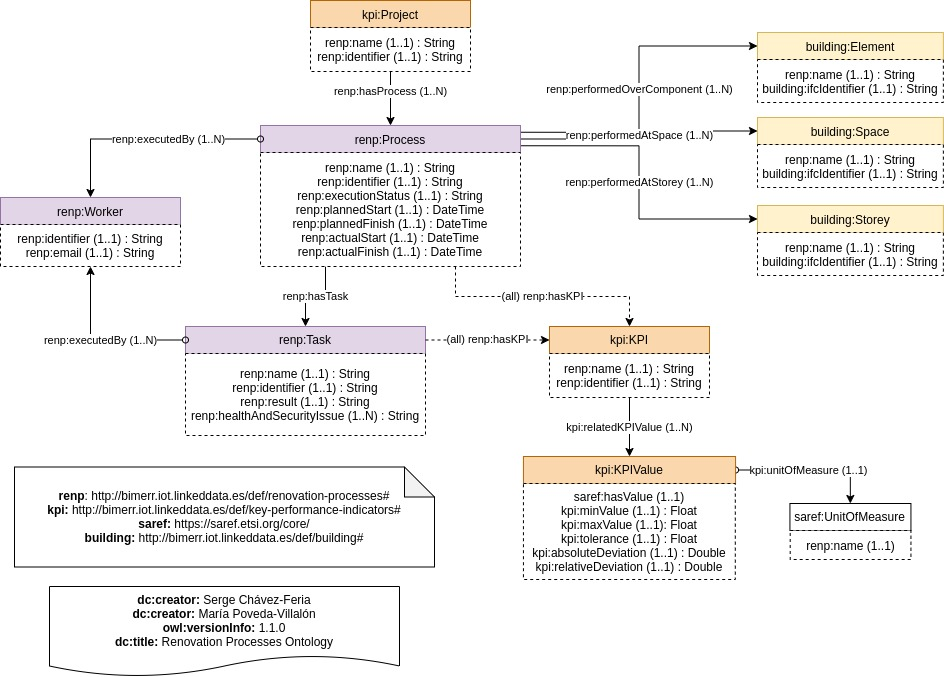
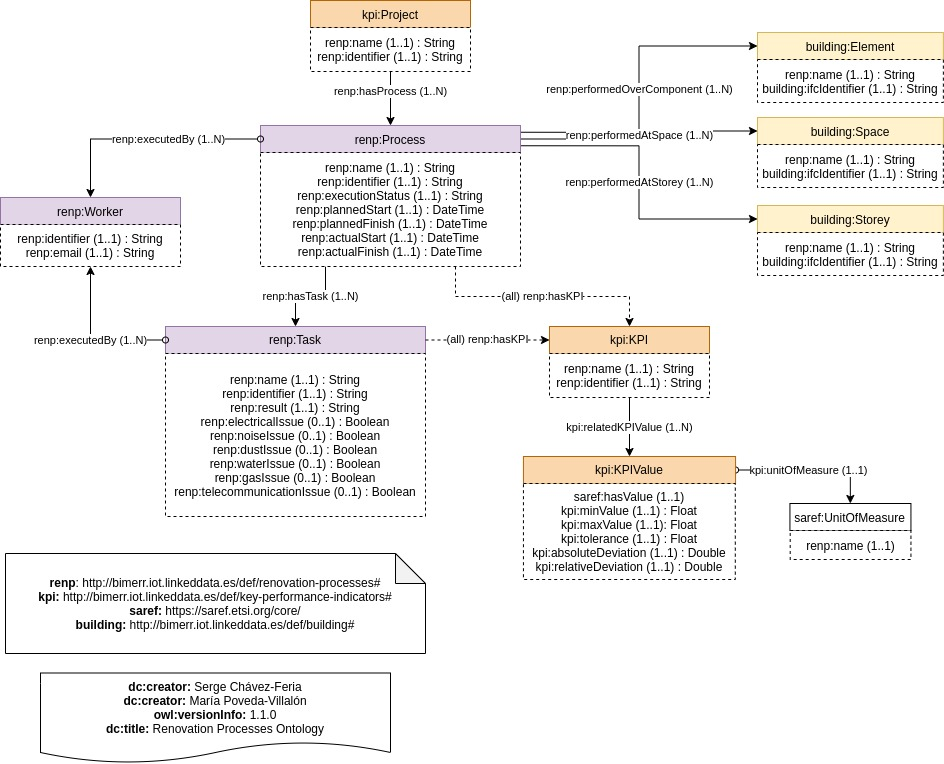
new attributes

diff --git a/documentation/sections/crossref-en.html b/documentation/sections/crossref-en.html
@@ -517,12 +517,24 @@ This section provides details for each class and property defined by Renovation 
             title="http://bimerr.iot.linkeddata.es/def/renovation-processes#actualStart">actual start</a>
       </li>
       <li>
+         <a href="#dustIssue"
+            title="http://bimerr.iot.linkeddata.es/def/renovation-processes#dustIssue">dust issue</a>
+      </li>
+      <li>
+         <a href="#electricalIssue"
+            title="http://bimerr.iot.linkeddata.es/def/renovation-processes#electricalIssue">electrical issue</a>
+      </li>
+      <li>
          <a href="#email"
             title="http://bimerr.iot.linkeddata.es/def/renovation-processes#email">email</a>
       </li>
       <li>
          <a href="#executionStatus"
             title="http://bimerr.iot.linkeddata.es/def/renovation-processes#executionStatus">execution status</a>
+      </li>
+      <li>
+         <a href="#gasIssue"
+            title="http://bimerr.iot.linkeddata.es/def/renovation-processes#gasIssue">gas issue</a>
       </li>
       <li>
          <a href="#https://saref.etsi.org/core/hasValue" title="https://saref.etsi.org/core/hasValue">has value</a>
@@ -552,6 +564,10 @@ This section provides details for each class and property defined by Renovation 
             title="http://bimerr.iot.linkeddata.es/def/renovation-processes#name">name</a>
       </li>
       <li>
+         <a href="#noiseIssue"
+            title="http://bimerr.iot.linkeddata.es/def/renovation-processes#noiseIssue">noise issue</a>
+      </li>
+      <li>
          <a href="#plannedFinish"
             title="http://bimerr.iot.linkeddata.es/def/renovation-processes#plannedFinish">planned finish</a>
       </li>
@@ -568,8 +584,16 @@ This section provides details for each class and property defined by Renovation 
             title="http://bimerr.iot.linkeddata.es/def/renovation-processes#result">result</a>
       </li>
       <li>
+         <a href="#telecommunicationIssue"
+            title="http://bimerr.iot.linkeddata.es/def/renovation-processes#telecommunicationIssue">telecommunication issue</a>
+      </li>
+      <li>
          <a href="#http://bimerr.iot.linkeddata.es/def/key-performance-indicators#tolerance"
             title="http://bimerr.iot.linkeddata.es/def/key-performance-indicators#tolerance">tolerance</a>
+      </li>
+      <li>
+         <a href="#waterIssue"
+            title="http://bimerr.iot.linkeddata.es/def/renovation-processes#waterIssue">water issue</a>
       </li>
    </ul>
    <div class="entity" id="http://bimerr.iot.linkeddata.es/def/key-performance-indicators#absoluteDeviation">
@@ -603,6 +627,38 @@ This section provides details for each class and property defined by Renovation 
       </h3>
       <p>
          <strong>IRI:</strong> http://bimerr.iot.linkeddata.es/def/renovation-processes#actualStart</p>
+   </div>
+   <div class="entity" id="dustIssue">
+      <h3>dust issue<sup class="type-dp" title="data property">dp</sup>
+         <span class="backlink"> back to <a href="#toc">ToC</a> or <a href="#dataproperties">Data Property ToC</a>
+         </span>
+      </h3>
+      <p>
+         <strong>IRI:</strong> http://bimerr.iot.linkeddata.es/def/renovation-processes#dustIssue</p>
+      <div class="description">
+         <dl>
+            <dt>has range</dt>
+            <dd>
+               <span class="dotted" title="http://www.w3.org/2001/XMLSchema#boolean">boolean</span>
+            </dd>
+         </dl>
+      </div>
+   </div>
+   <div class="entity" id="electricalIssue">
+      <h3>electrical issue<sup class="type-dp" title="data property">dp</sup>
+         <span class="backlink"> back to <a href="#toc">ToC</a> or <a href="#dataproperties">Data Property ToC</a>
+         </span>
+      </h3>
+      <p>
+         <strong>IRI:</strong> http://bimerr.iot.linkeddata.es/def/renovation-processes#electricalIssue</p>
+      <div class="description">
+         <dl>
+            <dt>has range</dt>
+            <dd>
+               <span class="dotted" title="http://www.w3.org/2001/XMLSchema#boolean">boolean</span>
+            </dd>
+         </dl>
+      </div>
    </div>
    <div class="entity" id="email">
       <h3>email<sup class="type-dp" title="data property">dp</sup>
@@ -638,6 +694,22 @@ This section provides details for each class and property defined by Renovation 
             <dt>has range</dt>
             <dd>
                <span class="dotted" title="http://www.w3.org/2001/XMLSchema#string">string</span>
+            </dd>
+         </dl>
+      </div>
+   </div>
+   <div class="entity" id="gasIssue">
+      <h3>gas issue<sup class="type-dp" title="data property">dp</sup>
+         <span class="backlink"> back to <a href="#toc">ToC</a> or <a href="#dataproperties">Data Property ToC</a>
+         </span>
+      </h3>
+      <p>
+         <strong>IRI:</strong> http://bimerr.iot.linkeddata.es/def/renovation-processes#gasIssue</p>
+      <div class="description">
+         <dl>
+            <dt>has range</dt>
+            <dd>
+               <span class="dotted" title="http://www.w3.org/2001/XMLSchema#boolean">boolean</span>
             </dd>
          </dl>
       </div>
@@ -773,6 +845,22 @@ This section provides details for each class and property defined by Renovation 
          </dl>
       </div>
    </div>
+   <div class="entity" id="noiseIssue">
+      <h3>noise issue<sup class="type-dp" title="data property">dp</sup>
+         <span class="backlink"> back to <a href="#toc">ToC</a> or <a href="#dataproperties">Data Property ToC</a>
+         </span>
+      </h3>
+      <p>
+         <strong>IRI:</strong> http://bimerr.iot.linkeddata.es/def/renovation-processes#noiseIssue</p>
+      <div class="description">
+         <dl>
+            <dt>has range</dt>
+            <dd>
+               <span class="dotted" title="http://www.w3.org/2001/XMLSchema#boolean">boolean</span>
+            </dd>
+         </dl>
+      </div>
+   </div>
    <div class="entity" id="plannedFinish">
       <h3>planned finish<sup class="type-dp" title="data property">dp</sup>
          <span class="backlink"> back to <a href="#toc">ToC</a> or <a href="#dataproperties">Data Property ToC</a>
@@ -824,6 +912,22 @@ This section provides details for each class and property defined by Renovation 
          </dl>
       </div>
    </div>
+   <div class="entity" id="telecommunicationIssue">
+      <h3>telecommunication issue<sup class="type-dp" title="data property">dp</sup>
+         <span class="backlink"> back to <a href="#toc">ToC</a> or <a href="#dataproperties">Data Property ToC</a>
+         </span>
+      </h3>
+      <p>
+         <strong>IRI:</strong> http://bimerr.iot.linkeddata.es/def/renovation-processes#telecommunicationIssue</p>
+      <div class="description">
+         <dl>
+            <dt>has range</dt>
+            <dd>
+               <span class="dotted" title="http://www.w3.org/2001/XMLSchema#boolean">boolean</span>
+            </dd>
+         </dl>
+      </div>
+   </div>
    <div class="entity" id="http://bimerr.iot.linkeddata.es/def/key-performance-indicators#tolerance">
       <h3>tolerance<sup class="type-dp" title="data property">dp</sup>
          <span class="backlink"> back to <a href="#toc">ToC</a> or <a href="#dataproperties">Data Property ToC</a>
@@ -839,6 +943,22 @@ This section provides details for each class and property defined by Renovation 
             <dt>has range</dt>
             <dd>
                <span class="dotted" title="http://www.w3.org/2001/XMLSchema#float">float</span>
+            </dd>
+         </dl>
+      </div>
+   </div>
+   <div class="entity" id="waterIssue">
+      <h3>water issue<sup class="type-dp" title="data property">dp</sup>
+         <span class="backlink"> back to <a href="#toc">ToC</a> or <a href="#dataproperties">Data Property ToC</a>
+         </span>
+      </h3>
+      <p>
+         <strong>IRI:</strong> http://bimerr.iot.linkeddata.es/def/renovation-processes#waterIssue</p>
+      <div class="description">
+         <dl>
+            <dt>has range</dt>
+            <dd>
+               <span class="dotted" title="http://www.w3.org/2001/XMLSchema#boolean">boolean</span>
             </dd>
          </dl>
       </div>

diff --git a/documentation/sections/overview-en.html b/documentation/sections/overview-en.html
@@ -93,12 +93,24 @@ This ontology has the following classes and properties.</span>
          title="http://bimerr.iot.linkeddata.es/def/renovation-processes#actualStart">actual start</a>
    </li>
    <li>
+      <a href="#dustIssue"
+         title="http://bimerr.iot.linkeddata.es/def/renovation-processes#dustIssue">dust issue</a>
+   </li>
+   <li>
+      <a href="#electricalIssue"
+         title="http://bimerr.iot.linkeddata.es/def/renovation-processes#electricalIssue">electrical issue</a>
+   </li>
+   <li>
       <a href="#email"
          title="http://bimerr.iot.linkeddata.es/def/renovation-processes#email">email</a>
    </li>
    <li>
       <a href="#executionStatus"
          title="http://bimerr.iot.linkeddata.es/def/renovation-processes#executionStatus">execution status</a>
+   </li>
+   <li>
+      <a href="#gasIssue"
+         title="http://bimerr.iot.linkeddata.es/def/renovation-processes#gasIssue">gas issue</a>
    </li>
    <li>
       <a href="#https://saref.etsi.org/core/hasValue" title="https://saref.etsi.org/core/hasValue">has value</a>
@@ -128,6 +140,10 @@ This ontology has the following classes and properties.</span>
          title="http://bimerr.iot.linkeddata.es/def/renovation-processes#name">name</a>
    </li>
    <li>
+      <a href="#noiseIssue"
+         title="http://bimerr.iot.linkeddata.es/def/renovation-processes#noiseIssue">noise issue</a>
+   </li>
+   <li>
       <a href="#plannedFinish"
          title="http://bimerr.iot.linkeddata.es/def/renovation-processes#plannedFinish">planned finish</a>
    </li>
@@ -144,7 +160,15 @@ This ontology has the following classes and properties.</span>
          title="http://bimerr.iot.linkeddata.es/def/renovation-processes#result">result</a>
    </li>
    <li>
+      <a href="#telecommunicationIssue"
+         title="http://bimerr.iot.linkeddata.es/def/renovation-processes#telecommunicationIssue">telecommunication issue</a>
+   </li>
+   <li>
       <a href="#http://bimerr.iot.linkeddata.es/def/key-performance-indicators#tolerance"
          title="http://bimerr.iot.linkeddata.es/def/key-performance-indicators#tolerance">tolerance</a>
+   </li>
+   <li>
+      <a href="#waterIssue"
+         title="http://bimerr.iot.linkeddata.es/def/renovation-processes#waterIssue">water issue</a>
    </li>
 </ul>
